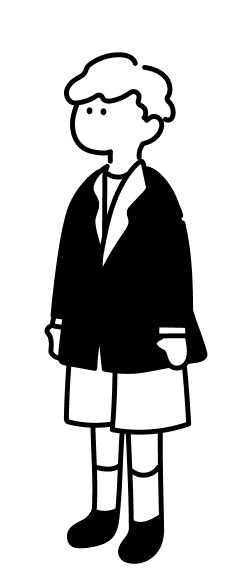
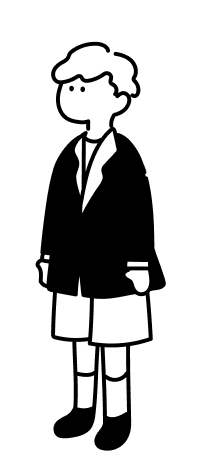
Memulai About Me

diff --git a/style.css b/style.css
@@ -1,97 +1,58 @@
-/* Mengatur tampilan tombol navigasi */
+/* CSS untuk mengatur tampilan tombol navigasi */
 .nav-link {
-  margin-right: 10px; /* Menambahkan renggang di antara tombol */
-  color: #888; /* Warna teks awal (abu-abu) */
-  transition: color 0.2s; /* Animasi perubahan warna saat hover */
+  margin-right: 10px;
+  color: #888;
+  transition: color 0.2s;
 }
 
-/* Mengubah warna teks tombol saat di-hover */
 .nav-link:hover {
-  color: #ffffff; /* Warna teks saat di-hover (hitam) */
+  color: #ffffff;
 }
 
-/* Mengatur tampilan gambar profil */
+/* CSS untuk mengatur tampilan gambar profil */
 .rounded-rectangle {
-  border: 0px solid #ffffff; /* Warna dan ketebalan border */
-  border-radius: 15px; /* Jari-jari border untuk membuat rectangle berbentuk bulat */
-  padding: 5px; /* Spasi internal untuk membuat rectangle terlihat lebih baik */
-  margin-right: auto; /* Menambahkan renggang antara gambar dan teks */
+  border: 0; /* Anda dapat menghapus border karena nilainya 0 */
+  border-radius: 15px;
+  padding: 5px;
+  margin-right: auto;
 }
 
-/* Menentukan latar belakang laman Overview */
+/* Mengatur font keluarga untuk seluruh halaman */
 body {
-  background-color: #000; /* Warna latar belakang hitam */
   font-family: "Manrope", sans-serif;
 }
 
-/* Menentukan latar belakang laman Overview dan menggunakan Flexbox untuk mengatur konten di tengah */
-.overview {
-  background-color: #000; /* Warna latar belakang hitam */
-  display: flex;
-  flex-direction: column;
-  align-items: center;
-  justify-content: center;
-  height: 70vh; /* Mengisi seluruh tinggi viewport */
-}
-
-.left-content {
-  color: #fff; /* Mengatur warna teks menjadi putih */
-  position: abs; /* Perubahan ini seharusnya menjadi position: absolute; */
-  z-index: 1; /* Mengatur z-index ke 1 untuk menampilkan teks di atas gambar */
-}
-
-.bold-text {
-  font-weight: bold;
-}
-
-/* Mengatur tombol Contact Us */
-.btn-white {
-  background-color: #fff; /* Warna latar belakang putih */
-  color: #000; /* Warna teks hitam */
-  border: none; /* Hapus border */
-  border-radius: 10px; /* Rounded rectangle dengan sudut lekuk */
-  padding: 10px 20px; /* Spasi dalam tombol */
-  margin: 5px; /* Spasi antara tombol */
-  transition: transform 0.2s; /* Animasi transform saat di-hover */
-}
-
-/* Mengatur tombol About */
+/* CSS untuk tombol Contact Me dan About */
+.btn-white,
 .btn-gray {
-  background-color: #888; /* Warna latar belakang abu-abu */
-  color: #fff; /* Warna teks putih */
-  border: none; /* Hapus border */
-  border-radius: 10px; /* Rounded rectangle dengan sudut lekuk */
-  padding: 10px 20px; /* Spasi dalam tombol */
-  margin: 5px; /* Spasi antara tombol */
-  transition: transform 0.2s; /* Animasi transform saat di-hover */
+  border: none;
+  border-radius: 10px;
+  padding: 10px 20px;
+  margin: 5px;
+  transition: transform 0.2s;
 }
 
-/* Mengubah ukuran tombol saat di-hover */
+.btn-white {
+  background-color: #fff;
+  color: #000;
+}
+
+.btn-gray {
+  background-color: #888;
+  color: #fff;
+}
+
 .btn-white:hover,
 .btn-gray:hover {
-  transform: scale(1.1); /* Membesarkan tombol sebesar 10% saat di-hover */
+  transform: scale(1.1);
 }
 
 /* CSS untuk mengatur gambar di dalam container */
 .right-content img {
-  max-width: 100%; /* Membatasi lebar maksimum gambar agar sesuai dengan container */
-  height: auto; /* Menjaga aspek gambar agar tidak terdistorsi */
-  position: absolute; /* Mengatur posisi absolut untuk mengontrol koordinat */
-  top: 50%; /* Mengatur posisi vertikal ke tengah (vertically centered) */
-  left: 50%; /* Mengatur posisi horizontal ke tengah (horizontally centered) */
-  transform: translate(100px, -50%); /* Menggeser gambar ke tengah */
-}
-
-/* CSS untuk overlay gradient hitam di layar ponsel */
-@media (max-width: 767px) {
-  .overview::before {
-    content: "";
-    position: absolute;
-    top: 0;
-    left: 0;
-    width: 100%;
-    height: 100%;
-    background: linear-gradient(to bottom, transparent, transparent, black); /* Menambahkan lapisan gradient hitam */
-    z-index: -1;
-  }
+  max-width: 100%;
+  height: auto;
+  position: absolute;
+  top: 50%;
+  left: 50%;
+  transform: translate(-50%, -50%); /* Menyesuaikan posisi gambar ke tengah secara horizontal dan vertikal */
 }

diff --git a/index.html b/index.html
@@ -32,26 +32,42 @@
     </nav>
     <!-- Akhir Navbar -->
 
-    <!-- Overview Content -->
-    <div class="container overview">
+    <!-- Home Content with Black Background -->
+    <section class="container-fluid bg-black text-white">
       <div class="row">
-        <div class="col-lg-6">
-          <div class="left-content">
-            <h1><span class="bold-text">Hai, Selamat Datang!</span></h1>
-            <p>Perkenalkan namaku Thariq Kemal Hassan. Aku adalah mahasiswa Semester 3 Prodi Sistem Informasi Institut Teknlogi Sepuluh Nopember.</p>
+        <div class="col-8">
+          <div class="p-5">
+            <h1><span style="font-size: 36px; font-weight: 700">Hai, Selamat Datang!</span></h1>
+            <p>Perkenalkan, saya Thariq Kemal Hassan. Aku adalah mahasiswa Semester 3 Prodi Sistem Informasi Institut Teknlogi Sepuluh Nopember.</p>
             <p>Saat ini aku sedang mempelajari ilmu mengenai Pemrograman Web. Laman ini adalah informasi mengenai diriku. Selamat membaca!</p>
             <button class="btn btn-white"><b>Contact Me</b></button>
             <button class="btn btn-gray"><b>About</b></button>
           </div>
         </div>
-        <div class="col-lg-6">
-          <div class="right-content">
-            <img src="Ava.png" alt="Deskripsi Gambar" />
+        <div class="col">
+          <img src="Ava.png" class="img-fluid" alt="Avatar" />
+        </div>
+      </div>
+    </section>
+    <svg xmlns="http://www.w3.org/2000/svg" viewBox="0 0 1440 320">
+      <path
+        fill="#000000"
+        fill-opacity="1"
+        d="M0,0L34.3,32C68.6,64,137,128,206,154.7C274.3,181,343,171,411,181.3C480,192,549,224,617,218.7C685.7,213,754,171,823,154.7C891.4,139,960,149,1029,154.7C1097.1,160,1166,160,1234,144C1302.9,128,1371,96,1406,80L1440,64L1440,0L1405.7,0C1371.4,0,1303,0,1234,0C1165.7,0,1097,0,1029,0C960,0,891,0,823,0C754.3,0,686,0,617,0C548.6,0,480,0,411,0C342.9,0,274,0,206,0C137.1,0,69,0,34,0L0,0Z"
+      ></path>
+    </svg>
+    <!-- Akhir Home Content -->
+
+    <!-- Halaman About -->
+    <section id="About">
+      <div class="container">
+        <div class="row text-center">
+          <div class="col">
+            <h2><span style="font-size: 36px; font-weight: 700">About Me</span></h2>
           </div>
         </div>
       </div>
-    </div>
-    <!-- Akhir Overview Content -->
+    </section>
 
     <script src="https://cdn.jsdelivr.net/npm/bootstrap@5.3.2/dist/js/bootstrap.bundle.min.js" integrity="sha384-C6RzsynM9kWDrMNeT87bh95OGNyZPhcTNXj1NW7RuBCsyN/o0jlpcV8Qyq46cDfL" crossorigin="anonymous"></script>
     <script src="https://cdn.jsdelivr.net/npm/@popperjs/core@2.11.8/dist/umd/popper.min.js" integrity="sha384-I7E8VVD/ismYTF4hNIPjVp/Zjvgyol6VFvRkX/vR+Vc4jQkC+hVqc2pM8ODewa9r" crossorigin="anonymous"></script>
